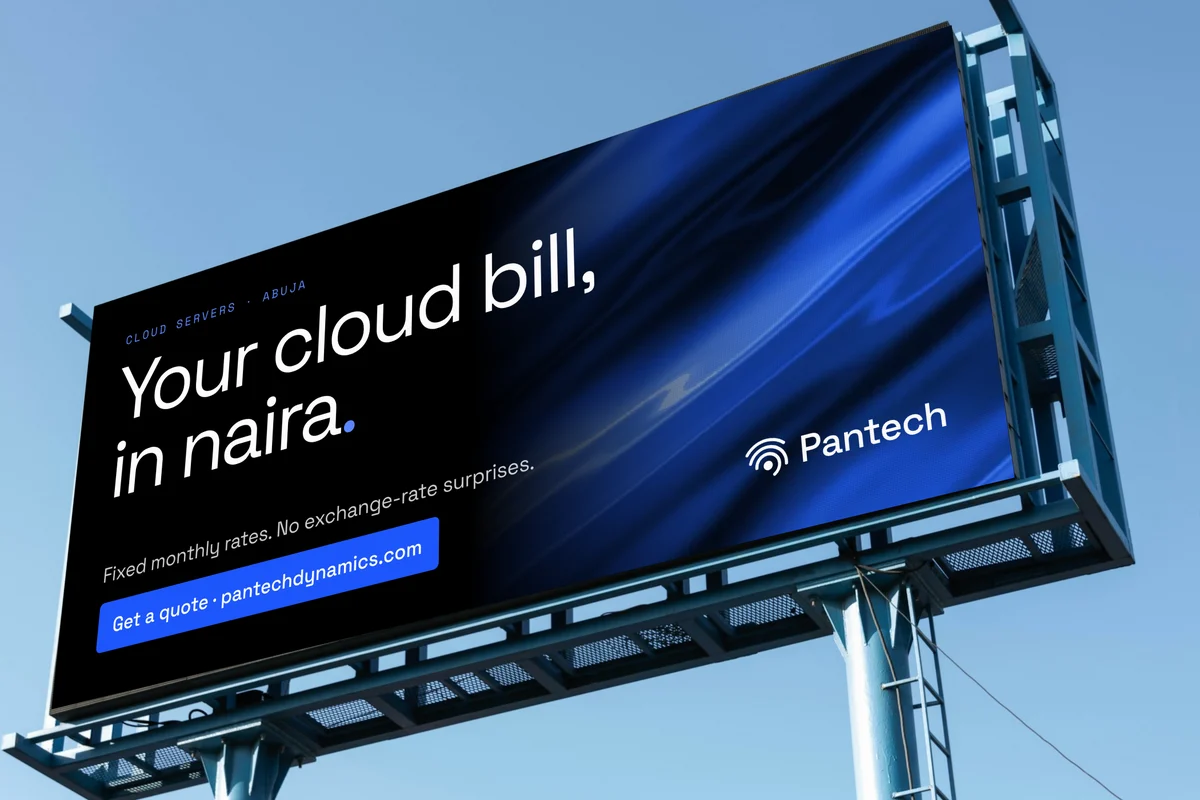
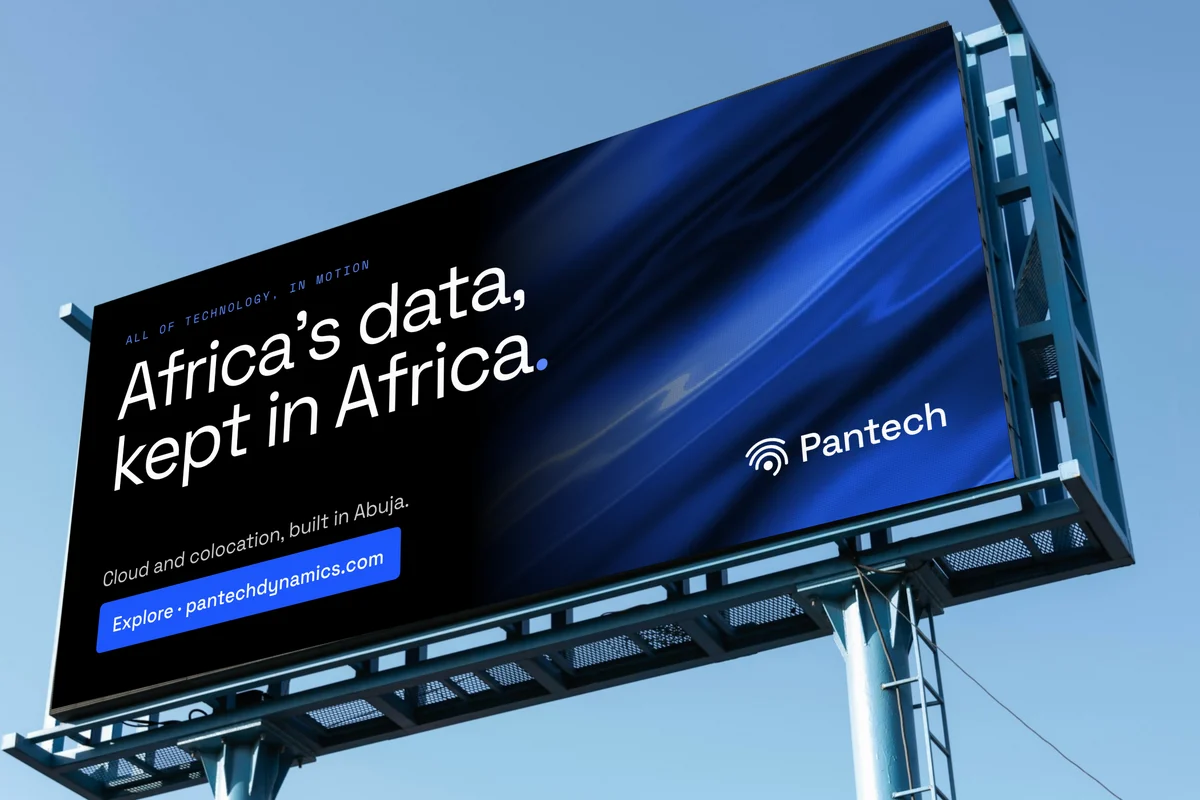
Pantech: billboard 'Africa’s data, kept in Africa.'; airport screen removed (review)
Claude-Session: https://claude.ai/code/session_01RM6AwGwnHcAYYXnMABwLuz

diff --git a/case-pantech.html b/case-pantech.html
@@ -1614,8 +1614,7 @@ body{background:var(--ink)}
 
     <div class="v-grid">
       <figure class="v-p v-full pt-wide" data-reveal><img src="/assets/img/cs-pt-posters.webp" width="1220" height="1019" alt="Three Pantech campaign posters in a dark corridor" loading=lazy decoding="async"></figure>
-      <figure class="v-p v-full pt-road" data-reveal><picture><source media="(max-width:760px)" srcset="/assets/img/cs-pt-billboard-road-m.webp" width="1200" height="800"><img src="/assets/img/cs-pt-billboard-road.webp" width="2400" height="1600" alt="A Pantech billboard against a blue sky: Your cloud bill, in naira. Fixed monthly rates. No exchange-rate surprises. Get a quote at pantechdynamics.com" loading="lazy" decoding="async"></picture></figure>
-      <figure class="v-p v-full pt-road" data-reveal><picture><source media="(max-width:760px)" srcset="/assets/img/cs-pt-airport-m.webp" width="1200" height="800"><img src="/assets/img/cs-pt-airport.webp" width="2400" height="1599" alt="A Pantech screen in an airport concourse: 8 ms round trip from Lagos. Your users are in Lagos. Your server shouldn’t be in Virginia." loading="lazy" decoding="async"></picture></figure>
+      <figure class="v-p v-full pt-road" data-reveal><picture><source media="(max-width:760px)" srcset="/assets/img/cs-pt-billboard-road-m.webp" width="1200" height="800"><img src="/assets/img/cs-pt-billboard-road.webp" width="2400" height="1600" alt="A Pantech billboard against a blue sky: Africa’s data, kept in Africa. Cloud and colocation, built in Abuja." loading="lazy" decoding="async"></picture></figure>
       <div class="v-full pt-merch" data-reveal><figure class="v-p"><img src="/assets/img/cs-pt-kit.webp" srcset="/assets/img/cs-pt-kit-1000.webp 1000w, /assets/img/cs-pt-kit.webp 2000w" sizes="(max-width:900px) 100vw, 62vw" width="2000" height="1500" alt="The Pantech welcome kit: hoodie with a white chest mark, notebook with the mark blind-debossed, embroidered cap, etched bottle and ID card" loading="lazy" decoding="async"></figure><figure class="v-p"><img src="/assets/img/cs-pt-hoodie.webp" width="1200" height="1500" alt="A black Pantech hoodie with the Orbit mark printed in white on the chest" loading="lazy" decoding="async"></figure></div>
       <figure class="v-p v-full pt-wide2" data-reveal><img src="/assets/img/cs-pt-reception.webp" width="1220" height="610" alt="The reception wall: the full lockup in dimensional letters on dark stone" loading=lazy decoding="async"></figure>
       <div class="v-full pt-env" data-reveal><figure class="v-p"><img src="/assets/img/cs-pt-env-1.webp" width="419" height="364" alt="A stacked lockup on a lobby wall" loading=lazy decoding="async"></figure><figure class="v-p"><img src="/assets/img/cs-pt-env-2.webp" width="418" height="364" alt="A horizontal lockup above a desk" loading=lazy decoding="async"></figure><figure class="v-p"><img src="/assets/img/cs-pt-env-3.webp" width="335" height="363" alt="The mark as door vinyl" loading=lazy decoding="async"></figure></div>
